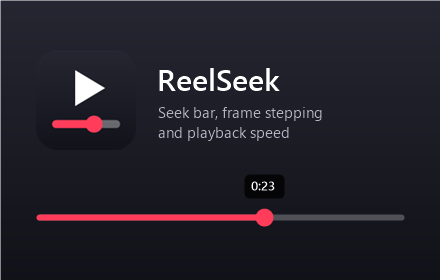
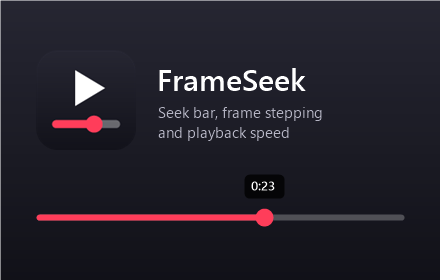
Rename the extension to FrameSeek
The old name was one letter away from an existing Firefox add-on
(ReelSleek). FrameSeek also names the feature that sets this extension
apart: frame-by-frame stepping.

Updates the store name, popup, docs, privacy policy, promo tile and the
internal names. Saved settings are kept, since their storage keys don't
change. Bump version to 1.1.1.

Changed region(s): [[0.3545, 0.2286, 0.7091, 0.3429]]

diff --git a/src/content/seekbar.js b/src/content/seekbar.js
@@ -1,10 +1,10 @@
 // Seek bar controller: one instance per <video>. The UI lives in a Shadow DOM so
 // Instagram's CSS can't reach it and ours can't leak out.
-// Loaded as a classic content script; exposes globalThis.ReelSeek.SeekBar.
+// Loaded as a classic content script; exposes globalThis.FrameSeek.SeekBar.
 (() => {
   'use strict';
 
-  const { SPEEDS } = globalThis.ReelSeekSettings;
+  const { SPEEDS } = globalThis.FrameSeekSettings;
   const CLICK_SPEEDS = [0.5, 1, 1.25, 1.5, 2];
   const ZONE_PX = 72; // bottom strip of the video that reveals the time/speed controls
   const ZONE_MARGIN = 16; // how far the strip reaches above the pills when they're lifted
@@ -275,7 +275,7 @@
 
     build() {
       this.host = document.createElement('div');
-      this.host.setAttribute('data-reelseek', '');
+      this.host.setAttribute('data-frameseek', '');
       this.host.style.cssText =
         'all: initial !important; position: absolute !important; inset: 0 !important; display: block !important;' +
         'z-index: 2147483000 !important; pointer-events: none !important;';
@@ -822,5 +822,5 @@
     };
   }
 
-  globalThis.ReelSeek = Object.freeze({ SeekBar, formatTime });
+  globalThis.FrameSeek = Object.freeze({ SeekBar, formatTime });
 })();

diff --git a/src/shared/settings.js b/src/shared/settings.js
@@ -1,5 +1,5 @@
 // Shared settings store, used by the content scripts and the popup.
-// Loaded as a classic script, so it exposes a single global: ReelSeekSettings.
+// Loaded as a classic script, so it exposes a single global: FrameSeekSettings.
 (() => {
   'use strict';
 
@@ -54,7 +54,7 @@
     return () => api.storage.onChanged.removeListener(listener);
   }
 
-  globalThis.ReelSeekSettings = Object.freeze({
+  globalThis.FrameSeekSettings = Object.freeze({
     DEFAULTS,
     SPEEDS,
     SKIP_CHOICES,

diff --git a/src/popup/popup.html b/src/popup/popup.html
@@ -3,13 +3,13 @@
   <head>
     <meta charset="utf-8" />
     <meta name="viewport" content="width=device-width, initial-scale=1" />
-    <title>ReelSeek</title>
+    <title>FrameSeek</title>
     <link rel="stylesheet" href="popup.css" />
   </head>
   <body>
     <header>
       <img src="../../icons/icon-32.png" width="24" height="24" alt="" />
-      <h1>ReelSeek</h1>
+      <h1>FrameSeek</h1>
     </header>
 
     <main>

diff --git a/src/content/content.js b/src/content/content.js
@@ -4,8 +4,8 @@
 (() => {
   'use strict';
 
-  const { getSettings, setSettings, onSettingsChanged, DEFAULTS } = globalThis.ReelSeekSettings;
-  const { SeekBar } = globalThis.ReelSeek;
+  const { getSettings, setSettings, onSettingsChanged, DEFAULTS } = globalThis.FrameSeekSettings;
+  const { SeekBar } = globalThis.FrameSeek;
 
   const MIN_WIDTH = 200; // skip hover previews and thumbnails
   const MIN_HEIGHT = 150;

diff --git a/src/popup/popup.js b/src/popup/popup.js
@@ -1,7 +1,7 @@
 (() => {
   'use strict';
 
-  const { getSettings, setSettings, onSettingsChanged, SKIP_CHOICES } = globalThis.ReelSeekSettings;
+  const { getSettings, setSettings, onSettingsChanged, SKIP_CHOICES } = globalThis.FrameSeekSettings;
   const api = globalThis.browser ?? globalThis.chrome;
 
   const TOGGLES = ['enabled', 'keyboard', 'showSpeed', 'rememberSpeed'];

diff --git a/test/stories.html b/test/stories.html
@@ -3,7 +3,7 @@
   <head>
     <meta charset="utf-8" />
     <meta name="viewport" content="width=device-width, initial-scale=1" />
-    <title>ReelSeek Stories Harness</title>
+    <title>FrameSeek Stories Harness</title>
     <style>
       :root {
         color-scheme: dark;

diff --git a/test/harness.html b/test/harness.html
@@ -3,7 +3,7 @@
   <head>
     <meta charset="utf-8" />
     <meta name="viewport" content="width=device-width, initial-scale=1" />
-    <title>ReelSeek Harness</title>
+    <title>FrameSeek Harness</title>
     <style>
       :root {
         --bg: #fafafa;

diff --git a/test/chrome-shim.js b/test/chrome-shim.js
@@ -3,7 +3,7 @@
 (() => {
   'use strict';
 
-  const KEY = 'reelseek-shim-storage';
+  const KEY = 'frameseek-shim-storage';
   const listeners = new Set();
 
   const read = () => {

diff --git a/store/listing.md b/store/listing.md
@@ -6,11 +6,11 @@ Everything to paste into the Chrome Web Store, Microsoft Edge Add-ons and Firefo
 npm run package
 ```
 
-That builds `dist/reelseek-<version>.zip`. Every new upload needs a higher `version` in `manifest.json`.
+That builds `dist/frameseek-<version>.zip`. Every new upload needs a higher `version` in `manifest.json`.
 
 ## Before you submit
 
-- [ ] **Check the name is free.** Search each store for "ReelSeek". If it's taken, change `name` / `short_name` in `manifest.json`, the popup title and these texts.
+- [ ] **Check the name is free.** Search each store for "FrameSeek". If it's taken, change `name` / `short_name` in `manifest.json`, the popup title and these texts.
 - [ ] **Host the privacy policy.** Put [PRIVACY.md](../PRIVACY.md) at a public URL. The easiest way is a public GitHub repository: link to the file, or turn on GitHub Pages.
 - [ ] **Pick a license** (for example MIT) if you want the code to be open source. Firefox Add-ons asks for one.
 - [ ] **Take screenshots** of Instagram with the bar visible (see the Images section).
@@ -20,7 +20,7 @@ That builds `dist/reelseek-<version>.zip`. Every new upload needs a higher `vers
 
 **Name**
 ```
-ReelSeek: Video Seek Bar & Speed
+FrameSeek: Video Seek Bar & Speed
 ```
 
 **Summary / short description** (Chrome limit: 132 characters)
@@ -30,7 +30,7 @@ Adds a YouTube-style seek bar, skip shortcuts and playback speed to Instagram vi
 
 **Description**
 ```
-Instagram on the web doesn't let you scrub through Reels. ReelSeek adds the seek bar you know from YouTube.
+Instagram on the web doesn't let you scrub through Reels. FrameSeek adds the seek bar you know from YouTube.
 
 FEATURES
 • Seek bar on every video on instagram.com: Reels, reel pages, feed posts, the post popup and stories
@@ -42,7 +42,7 @@ FEATURES
 • Settings popup to turn each feature on or off
 
 PRIVACY
-ReelSeek collects no data, makes no network requests and runs only on instagram.com. It only adds controls to the page in your own browser. It never downloads videos or acts on your account.
+FrameSeek collects no data, makes no network requests and runs only on instagram.com. It only adds controls to the page in your own browser. It never downloads videos or acts on your account.
 
 Not affiliated with, endorsed by, or sponsored by Meta or Instagram. Instagram is a trademark of Meta Platforms, Inc.
 ```

diff --git a/PRIVACY.md b/PRIVACY.md
@@ -1,12 +1,12 @@
-# ReelSeek Privacy Policy
+# FrameSeek Privacy Policy
 
 _Last updated: October 20, 2026_
 
-ReelSeek is a browser extension that adds a seek bar, skip shortcuts and playback speed controls to videos on instagram.com.
+FrameSeek is a browser extension that adds a seek bar, skip shortcuts and playback speed controls to videos on instagram.com.
 
 ## What we collect
 
-**Nothing.** ReelSeek does not collect, store, transmit, sell or share any personal or usage data.
+**Nothing.** FrameSeek does not collect, store, transmit, sell or share any personal or usage data.
 
 - No analytics, tracking, telemetry or advertising.
 - No network requests of any kind. The extension contains no code that talks to a server.
@@ -14,7 +14,7 @@ ReelSeek is a browser extension that adds a seek bar, skip shortcuts and playbac
 
 ## What is stored on your device
 
-ReelSeek saves only its own settings, using your browser's extension storage:
+FrameSeek saves only its own settings, using your browser's extension storage:
 - whether it is on
 - whether keyboard shortcuts and the speed controls are on
 - your skip length
@@ -35,4 +35,4 @@ If this policy ever changes, the new version will be published at this same addr
 
 Questions: open an issue on the project's repository, or email the address listed on the store page.
 
-ReelSeek is not affiliated with, endorsed by, or sponsored by Meta Platforms, Inc. or Instagram.
+FrameSeek is not affiliated with, endorsed by, or sponsored by Meta Platforms, Inc. or Instagram.

diff --git a/README.md b/README.md
@@ -1,4 +1,4 @@
-# ReelSeek
+# FrameSeek
 
 A browser extension that adds a YouTube-style seek bar to videos and Reels on instagram.com, plus skip shortcuts and playback speed.
 
@@ -40,7 +40,7 @@ After editing code, click the reload icon on the extension card, then reload the
 
 1. Open `about:debugging#/runtime/this-firefox`.
 2. Click **Load Temporary Add-on…** and pick `manifest.json`.
-3. Open https://www.instagram.com/reels/. If the bar doesn't appear, click the extensions (puzzle) button, then ReelSeek, and allow it on instagram.com.
+3. Open https://www.instagram.com/reels/. If the bar doesn't appear, click the extensions (puzzle) button, then FrameSeek, and allow it on instagram.com.
 
 ## Project layout
 
@@ -71,7 +71,7 @@ Instagram's class names are random and change often, so the extension only looks
 
 ```bash
 npm run icons     # regenerate icons/*.png
-npm run package   # build dist/reelseek-<version>.zip for the stores
+npm run package   # build dist/frameseek-<version>.zip for the stores
 npm run serve     # http://localhost:5173/test/harness.html
 npm run lint      # Mozilla's web-ext linter
 ```
